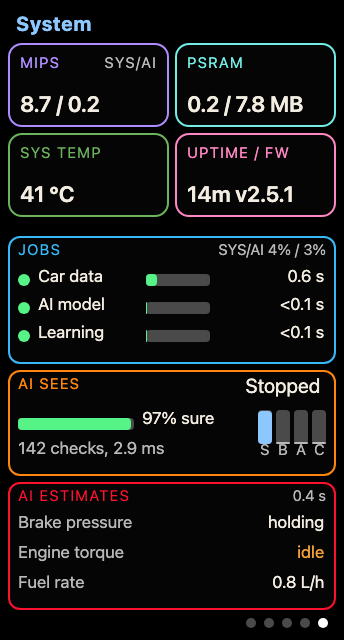
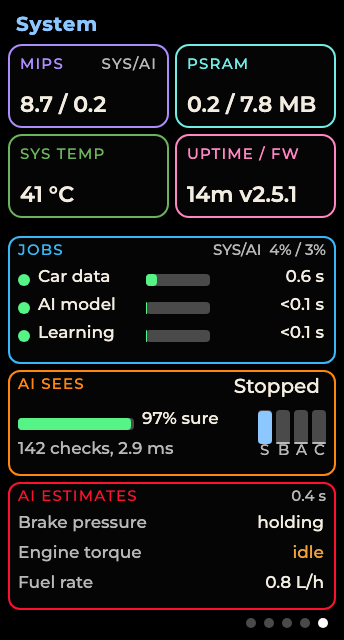
JOBS line: two spaces between SYS/AI and the numbers
Claude-Session: https://claude.ai/code/session_01XTAvvNGWPbxk6e88iM5qjd

diff --git a/docs/screens/screens.html b/docs/screens/screens.html
@@ -70,7 +70,7 @@ body{margin:0;background:#0A0A0A;font-family:Montserrat,system-ui,sans-serif;col
   <div class="tile" style="height:84px;border:2px solid #6CB35D"><span class="cap" style="font-size:15px;color:#6CB35D">SYS TEMP</span><span style="font-size:22px;font-weight:600">41 °C</span></div>
   <div class="tile" style="height:84px;border:2px solid #FE86C2"><span class="cap" style="font-size:15px;color:#FE86C2">UPTIME / FW</span><span style="font-size:22px;font-weight:600">14m  v2.5.1</span></div>
  </div>
- <div style="position:absolute;left:8px;top:236px;width:328px;height:128px;box-sizing:border-box;background:#050505;border:2px solid #38B8F6;border-radius:12px"><span class="cap" style="position:absolute;left:8px;top:2px;font-size:15px;color:#38B8F6">JOBS</span><span class="muted" style="position:absolute;right:8px;top:2px;font-size:15px">SYS/AI 4% / 3%</span><i style="position:absolute;left:8px;top:36px;width:12px;height:12px;border-radius:6px;background:#56F487"></i><span style="position:absolute;left:28px;top:28px;font-size:17px;">Car data</span><i style="position:absolute;left:136px;top:36px;width:64px;height:12px;border-radius:4px;background:#4A4A4A"></i><i style="position:absolute;left:136px;top:36px;width:11px;height:12px;border-radius:4px;background:#56F487"></i><span style="position:absolute;right:10px;top:28px;font-size:17px;color:#F2ECE1">0.6 s</span><i style="position:absolute;left:8px;top:64px;width:12px;height:12px;border-radius:6px;background:#56F487"></i><span style="position:absolute;left:28px;top:56px;font-size:17px;">AI model</span><i style="position:absolute;left:136px;top:64px;width:64px;height:12px;border-radius:4px;background:#4A4A4A"></i><i style="position:absolute;left:136px;top:64px;width:1px;height:12px;border-radius:4px;background:#56F487"></i><span style="position:absolute;right:10px;top:56px;font-size:17px;color:#F2ECE1">&lt;0.1 s</span></div>
+ <div style="position:absolute;left:8px;top:236px;width:328px;height:128px;box-sizing:border-box;background:#050505;border:2px solid #38B8F6;border-radius:12px"><span class="cap" style="position:absolute;left:8px;top:2px;font-size:15px;color:#38B8F6">JOBS</span><span class="muted" style="position:absolute;right:8px;top:2px;font-size:15px">SYS/AI&nbsp;&nbsp;4% / 3%</span><i style="position:absolute;left:8px;top:36px;width:12px;height:12px;border-radius:6px;background:#56F487"></i><span style="position:absolute;left:28px;top:28px;font-size:17px;">Car data</span><i style="position:absolute;left:136px;top:36px;width:64px;height:12px;border-radius:4px;background:#4A4A4A"></i><i style="position:absolute;left:136px;top:36px;width:11px;height:12px;border-radius:4px;background:#56F487"></i><span style="position:absolute;right:10px;top:28px;font-size:17px;color:#F2ECE1">0.6 s</span><i style="position:absolute;left:8px;top:64px;width:12px;height:12px;border-radius:6px;background:#56F487"></i><span style="position:absolute;left:28px;top:56px;font-size:17px;">AI model</span><i style="position:absolute;left:136px;top:64px;width:64px;height:12px;border-radius:4px;background:#4A4A4A"></i><i style="position:absolute;left:136px;top:64px;width:1px;height:12px;border-radius:4px;background:#56F487"></i><span style="position:absolute;right:10px;top:56px;font-size:17px;color:#F2ECE1">&lt;0.1 s</span></div>
  <div style="position:absolute;left:8px;top:370px;width:328px;height:106px;box-sizing:border-box;background:#050505;border:2px solid #FE860F;border-radius:12px"><span class="cap" style="position:absolute;left:8px;top:2px;font-size:15px;color:#FE860F">AI SEES</span><span style="position:absolute;right:14px;top:2px;font-size:20px">Cruising</span><i style="position:absolute;left:8px;top:46px;width:116px;height:12px;border-radius:4px;background:#4A4A4A"></i><i style="position:absolute;left:8px;top:46px;width:101px;height:12px;border-radius:4px;background:#56F487"></i><span style="position:absolute;left:132px;top:36px;font-size:17px">87% sure</span><span class="muted" style="position:absolute;left:8px;top:66px;font-size:17px">142 checks, 7.1 ms</span><i style="position:absolute;left:248px;top:38px;width:14px;height:34px;border-radius:4px;background:#4A4A4A"></i><i style="position:absolute;left:248px;top:70px;width:14px;height:2px;border-radius:4px;background:#B8B8B8"></i><span class="muted" style="position:absolute;left:250px;top:68px;font-size:15px">S</span><i style="position:absolute;left:266px;top:38px;width:14px;height:34px;border-radius:4px;background:#4A4A4A"></i><i style="position:absolute;left:266px;top:70px;width:14px;height:2px;border-radius:4px;background:#B8B8B8"></i><span class="muted" style="position:absolute;left:268px;top:68px;font-size:15px">B</span><i style="position:absolute;left:284px;top:38px;width:14px;height:34px;border-radius:4px;background:#4A4A4A"></i><i style="position:absolute;left:284px;top:70px;width:14px;height:2px;border-radius:4px;background:#B8B8B8"></i><span class="muted" style="position:absolute;left:286px;top:68px;font-size:15px">A</span><i style="position:absolute;left:302px;top:38px;width:14px;height:34px;border-radius:4px;background:#4A4A4A"></i><i style="position:absolute;left:302px;top:43px;width:14px;height:29px;border-radius:4px;background:#8CC8FF"></i><span class="muted" style="position:absolute;left:304px;top:68px;font-size:15px">C</span></div>
  <div style="position:absolute;left:8px;top:482px;width:328px;height:128px;box-sizing:border-box;background:#050505;border:2px solid #FD122E;border-radius:12px"><span class="cap" style="position:absolute;left:8px;top:2px;font-size:15px;color:#FD122E">AI ESTIMATES</span><span class="muted" style="position:absolute;right:8px;top:2px;font-size:15px">#142  0.4 s</span><span class="muted" style="position:absolute;left:8px;top:28px;font-size:17px">Brake pressure</span><span style="position:absolute;right:10px;top:28px;font-size:17px">6.3 bar</span><span class="muted" style="position:absolute;left:8px;top:58px;font-size:17px">Engine torque</span><span style="position:absolute;right:10px;top:58px;font-size:17px">24 Nm</span><span class="muted" style="position:absolute;left:8px;top:88px;font-size:17px">Fuel rate</span><span style="position:absolute;right:10px;top:88px;font-size:17px">2.1 L/h</span></div>
  <div class="dots"><span></span><span></span><span></span><span></span><span class="on"></span></div>
@@ -83,7 +83,7 @@ body{margin:0;background:#0A0A0A;font-family:Montserrat,system-ui,sans-serif;col
   <div class="tile" style="height:84px;border:2px solid #6CB35D"><span class="cap" style="font-size:15px;color:#6CB35D">SYS TEMP</span><span style="font-size:22px;font-weight:600">41 °C</span></div>
   <div class="tile" style="height:84px;border:2px solid #FE86C2"><span class="cap" style="font-size:15px;color:#FE86C2">UPTIME / FW</span><span style="font-size:22px;font-weight:600">14m  v2.5.1</span></div>
  </div>
- <div style="position:absolute;left:8px;top:236px;width:328px;height:128px;box-sizing:border-box;background:#050505;border:2px solid #38B8F6;border-radius:12px"><span class="cap" style="position:absolute;left:8px;top:2px;font-size:15px;color:#38B8F6">JOBS</span><span class="muted" style="position:absolute;right:8px;top:2px;font-size:15px">SYS/AI 4% / 3%</span><i style="position:absolute;left:8px;top:36px;width:12px;height:12px;border-radius:6px;background:#56F487"></i><span style="position:absolute;left:28px;top:28px;font-size:17px;">Car data</span><i style="position:absolute;left:136px;top:36px;width:64px;height:12px;border-radius:4px;background:#4A4A4A"></i><i style="position:absolute;left:136px;top:36px;width:11px;height:12px;border-radius:4px;background:#56F487"></i><span style="position:absolute;right:10px;top:28px;font-size:17px;color:#F2ECE1">0.6 s</span><i style="position:absolute;left:8px;top:64px;width:12px;height:12px;border-radius:6px;background:#56F487"></i><span style="position:absolute;left:28px;top:56px;font-size:17px;">AI model</span><i style="position:absolute;left:136px;top:64px;width:64px;height:12px;border-radius:4px;background:#4A4A4A"></i><i style="position:absolute;left:136px;top:64px;width:1px;height:12px;border-radius:4px;background:#56F487"></i><span style="position:absolute;right:10px;top:56px;font-size:17px;color:#F2ECE1">&lt;0.1 s</span><i style="position:absolute;left:8px;top:92px;width:12px;height:12px;border-radius:6px;background:#56F487"></i><span style="position:absolute;left:28px;top:84px;font-size:17px;">Learning</span><i style="position:absolute;left:136px;top:92px;width:64px;height:12px;border-radius:4px;background:#4A4A4A"></i><i style="position:absolute;left:136px;top:92px;width:1px;height:12px;border-radius:4px;background:#56F487"></i><span style="position:absolute;right:10px;top:84px;font-size:17px;color:#F2ECE1">&lt;0.1 s</span></div>
+ <div style="position:absolute;left:8px;top:236px;width:328px;height:128px;box-sizing:border-box;background:#050505;border:2px solid #38B8F6;border-radius:12px"><span class="cap" style="position:absolute;left:8px;top:2px;font-size:15px;color:#38B8F6">JOBS</span><span class="muted" style="position:absolute;right:8px;top:2px;font-size:15px">SYS/AI&nbsp;&nbsp;4% / 3%</span><i style="position:absolute;left:8px;top:36px;width:12px;height:12px;border-radius:6px;background:#56F487"></i><span style="position:absolute;left:28px;top:28px;font-size:17px;">Car data</span><i style="position:absolute;left:136px;top:36px;width:64px;height:12px;border-radius:4px;background:#4A4A4A"></i><i style="position:absolute;left:136px;top:36px;width:11px;height:12px;border-radius:4px;background:#56F487"></i><span style="position:absolute;right:10px;top:28px;font-size:17px;color:#F2ECE1">0.6 s</span><i style="position:absolute;left:8px;top:64px;width:12px;height:12px;border-radius:6px;background:#56F487"></i><span style="position:absolute;left:28px;top:56px;font-size:17px;">AI model</span><i style="position:absolute;left:136px;top:64px;width:64px;height:12px;border-radius:4px;background:#4A4A4A"></i><i style="position:absolute;left:136px;top:64px;width:1px;height:12px;border-radius:4px;background:#56F487"></i><span style="position:absolute;right:10px;top:56px;font-size:17px;color:#F2ECE1">&lt;0.1 s</span><i style="position:absolute;left:8px;top:92px;width:12px;height:12px;border-radius:6px;background:#56F487"></i><span style="position:absolute;left:28px;top:84px;font-size:17px;">Learning</span><i style="position:absolute;left:136px;top:92px;width:64px;height:12px;border-radius:4px;background:#4A4A4A"></i><i style="position:absolute;left:136px;top:92px;width:1px;height:12px;border-radius:4px;background:#56F487"></i><span style="position:absolute;right:10px;top:84px;font-size:17px;color:#F2ECE1">&lt;0.1 s</span></div>
  <div style="position:absolute;left:8px;top:370px;width:328px;height:106px;box-sizing:border-box;background:#050505;border:2px solid #FE860F;border-radius:12px"><span class="cap" style="position:absolute;left:8px;top:2px;font-size:15px;color:#FE860F">AI SEES</span><span style="position:absolute;right:14px;top:2px;font-size:20px">Stopped</span><i style="position:absolute;left:8px;top:46px;width:116px;height:12px;border-radius:4px;background:#4A4A4A"></i><i style="position:absolute;left:8px;top:46px;width:113px;height:12px;border-radius:4px;background:#56F487"></i><span style="position:absolute;left:132px;top:36px;font-size:17px">97% sure</span><span class="muted" style="position:absolute;left:8px;top:66px;font-size:17px">142 checks, 2.9 ms</span><i style="position:absolute;left:248px;top:38px;width:14px;height:34px;border-radius:4px;background:#4A4A4A"></i><i style="position:absolute;left:248px;top:39px;width:14px;height:33px;border-radius:4px;background:#8CC8FF"></i><span class="muted" style="position:absolute;left:250px;top:68px;font-size:15px">S</span><i style="position:absolute;left:266px;top:38px;width:14px;height:34px;border-radius:4px;background:#4A4A4A"></i><i style="position:absolute;left:266px;top:70px;width:14px;height:2px;border-radius:4px;background:#B8B8B8"></i><span class="muted" style="position:absolute;left:268px;top:68px;font-size:15px">B</span><i style="position:absolute;left:284px;top:38px;width:14px;height:34px;border-radius:4px;background:#4A4A4A"></i><i style="position:absolute;left:284px;top:70px;width:14px;height:2px;border-radius:4px;background:#B8B8B8"></i><span class="muted" style="position:absolute;left:286px;top:68px;font-size:15px">A</span><i style="position:absolute;left:302px;top:38px;width:14px;height:34px;border-radius:4px;background:#4A4A4A"></i><i style="position:absolute;left:302px;top:70px;width:14px;height:2px;border-radius:4px;background:#B8B8B8"></i><span class="muted" style="position:absolute;left:304px;top:68px;font-size:15px">C</span></div>
  <div style="position:absolute;left:8px;top:482px;width:328px;height:128px;box-sizing:border-box;background:#050505;border:2px solid #FD122E;border-radius:12px"><span class="cap" style="position:absolute;left:8px;top:2px;font-size:15px;color:#FD122E">AI ESTIMATES</span><span class="muted" style="position:absolute;right:8px;top:2px;font-size:15px">0.4 s</span><span class="muted" style="position:absolute;left:8px;top:28px;font-size:17px">Brake pressure</span><span style="position:absolute;right:10px;top:28px;font-size:17px">holding</span><span class="muted" style="position:absolute;left:8px;top:58px;font-size:17px">Engine torque</span><span style="position:absolute;right:10px;top:58px;font-size:17px;color:#F2A13A">idle</span><span class="muted" style="position:absolute;left:8px;top:88px;font-size:17px">Fuel rate</span><span style="position:absolute;right:10px;top:88px;font-size:17px">0.8 L/h</span></div>
  <div class="dots"><span></span><span></span><span></span><span></span><span class="on"></span></div>

diff --git a/main/display.c b/main/display.c
@@ -677,7 +677,7 @@ static void build_page4(void)
 
     /* scheduler strip, y 118..182 (content area 156 x 56): dot | name | time used vs. time allowed | last time or problem count */
     lv_obj_t *sch = s4_frame(118, 64, C_BLUE, "JOBS");
-    s4_load = s4_label(sch, &lv_font_montserrat_12, C_MUTED, 40, -2, 116, 15);
+    s4_load = s4_label(sch, &lv_font_montserrat_12, C_MUTED, 36, -2, 120, 15);   /* right of "JOBS" (33 px) */
     lv_obj_set_style_text_align(s4_load, LV_TEXT_ALIGN_RIGHT, 0);
     for (int i = 0; i < S4_JOBS; i++) {
         int y = 12 + i * 14;
@@ -733,7 +733,7 @@ static void refresh_sched(const sched_system_t *sys)
 {
     /* per-core CPU load of the jobs, U = sum(C_max / T); amber above the rate-monotonic bound, red if the
        response-time analysis says some job can miss its deadline */
-    lv_label_set_text_fmt(s4_load, "SYS/AI %d%% / %d%%", (int)(sys->util[0] * 100.0f + 0.5f), (int)(sys->util[1] * 100.0f + 0.5f));   /* job load per core, same order as the MIPS tile; "100% / 100%" is 115 of 116 px */
+    lv_label_set_text_fmt(s4_load, "SYS/AI  %d%% / %d%%", (int)(sys->util[0] * 100.0f + 0.5f), (int)(sys->util[1] * 100.0f + 0.5f));   /* job load per core, same order as the MIPS tile; "SYS/AI  100% / 100%" is 118 of 120 px */
     bool over = sys->util[0] > sys->rm_bound[0] || sys->util[1] > sys->rm_bound[1];
     lv_obj_set_style_text_color(s4_load, lv_color_hex(!sys->schedulable ? C_BAD : over ? C_WARN : C_MUTED), 0);
 
